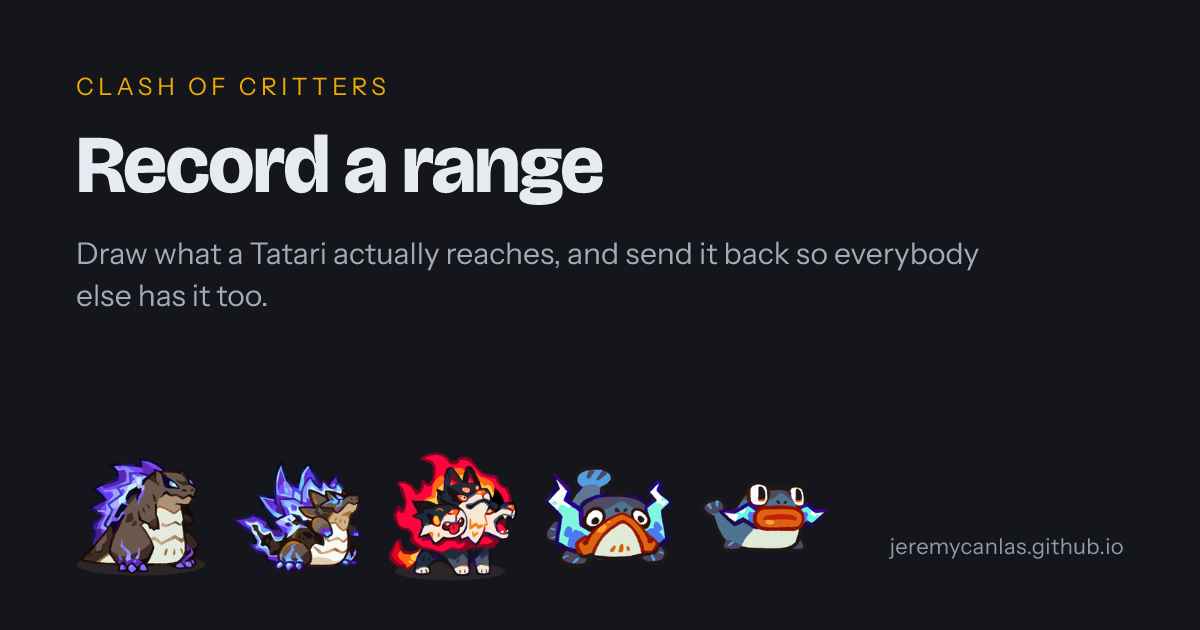
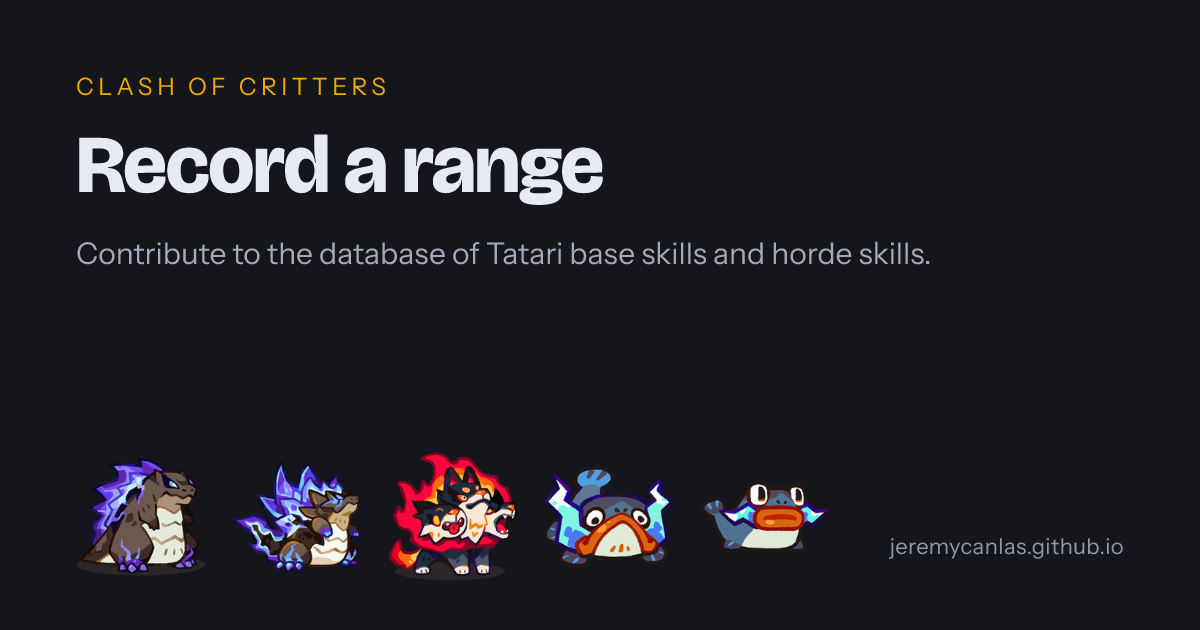
Record a range card: contributing to the skill database
Claude-Session: https://claude.ai/code/session_01LEvAnnaT5a4WkG3Ujaz21i

Changed region(s): [[0.0617, 0.3619, 0.8325, 0.4222], [0.0617, 0.4524, 0.2158, 0.4825]]

diff --git a/contribute.html b/contribute.html
@@ -21,7 +21,7 @@
   <meta property="og:type" content="website">
   <meta property="og:site_name" content="Horde Drafter">
   <meta property="og:title" content="Record a range">
-  <meta property="og:description" content="Draw what a Tatari actually reaches, and send it back so everybody else has it too.">
+  <meta property="og:description" content="Contribute to the database of Tatari base skills and horde skills.">
   <meta property="og:url" content="https://jeremycanlas.github.io/clash-of-critters-horde-planner/contribute.html">
   <meta property="og:image" content="https://jeremycanlas.github.io/clash-of-critters-horde-planner/assets/img/og/contribute.png">
   <meta property="og:image:width" content="1200">
